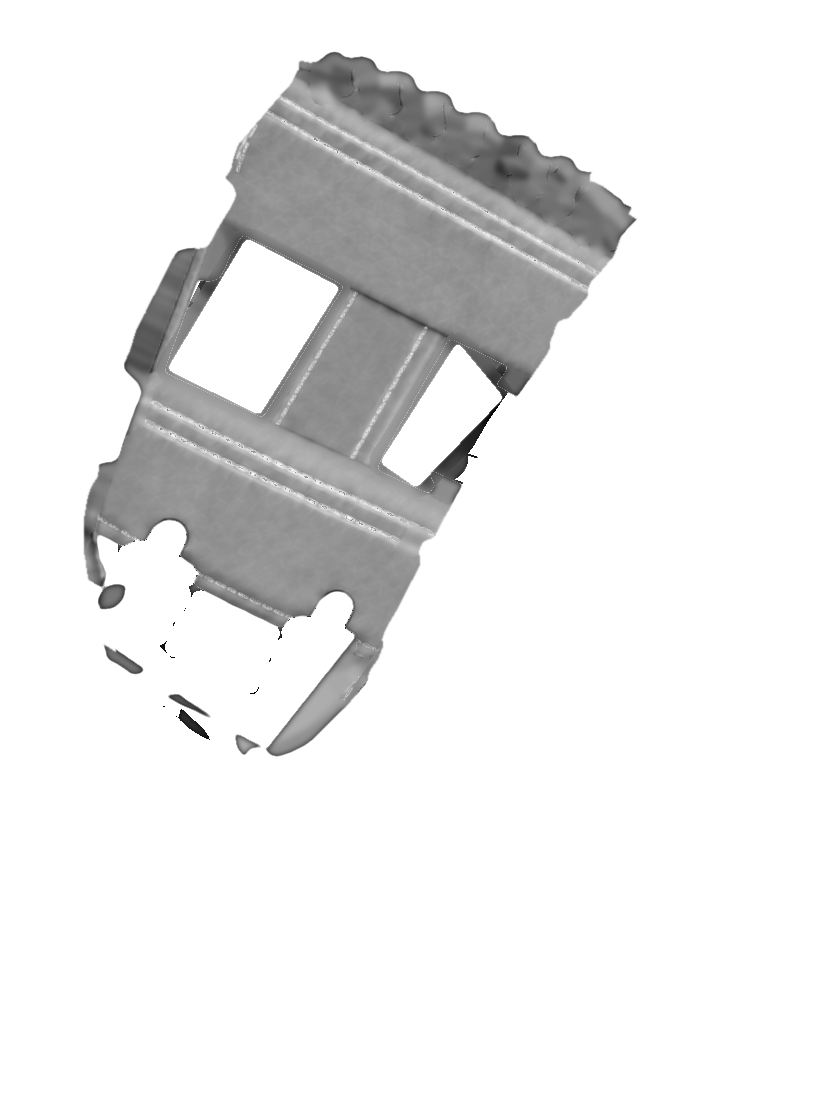
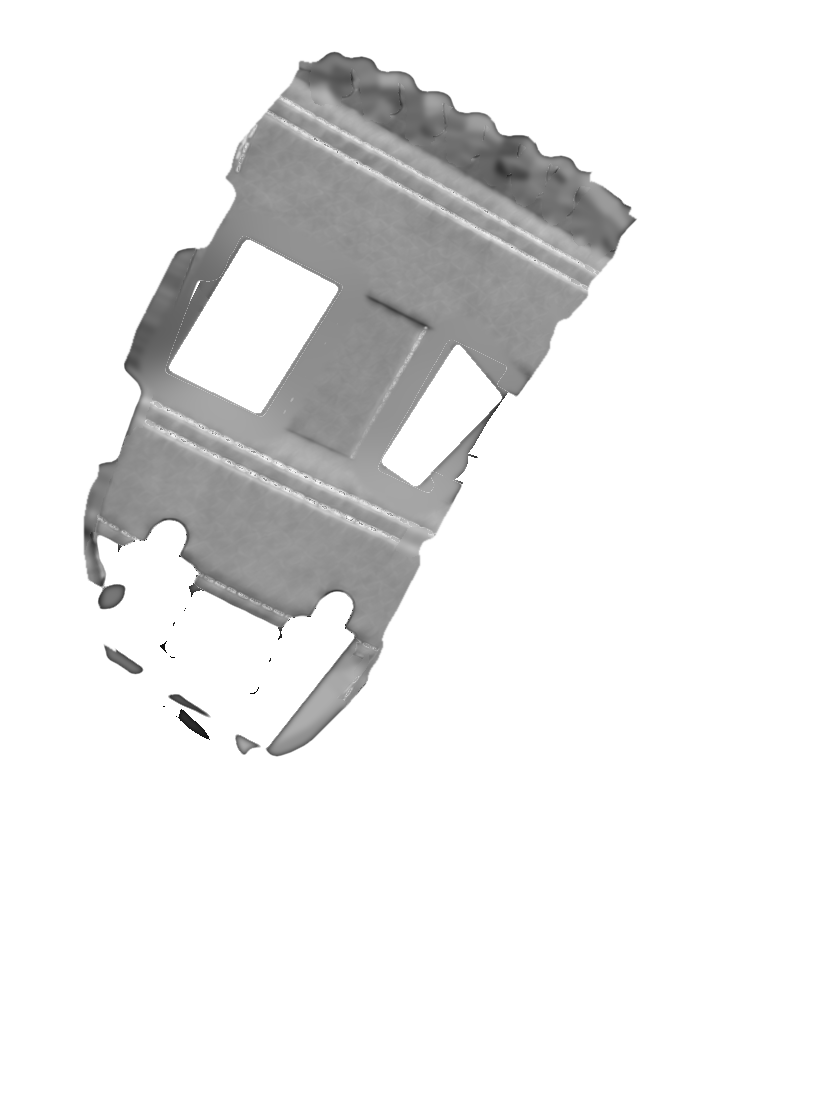
Thumb-side web windows: the rim round them is lit evenly
Scott: the second window still showed a dark step below it. The leather
round each window kept the shading of the old window's rim. It is now lit
from the leather beyond a wider rim, blended in, so only the clean window
and its own edge remain.

Claude-Session: https://claude.ai/code/session_01LrwdtXa84bx1vtPD2tbGHV

diff --git a/scripts/derive_thumb_web_estimates.py b/scripts/derive_thumb_web_estimates.py
@@ -37,7 +37,7 @@ PANEL_REACH, STRIPS = 41, {'back3'}
 EDGE = 2.2           # how far the leather's edge is evened, in pixels
 SLIVER, SEAL, HOLE = 11, 19, 2500      # a gap this narrow (SEAL on a web that is not a lattice), or an enclosed hole this small, is not an opening
 FOOT_HOLE = 8000     # ... and one this small beside the palm leather under an open web's foot is palm
-CORNER, RING = 3, 25     # how round a window's corners are, and how wide its edge is lit evenly, in pixels
+CORNER, RING = 3, 61     # how round a window's corners are, and how wide its edge is lit evenly, in pixels
 LATTICE = {'trapeze', 'modified-trapeze'}    # webs of laced straps: their small openings are real
 # the four H-web windows, palm side -> thumb side (window centres), to start the fit from
 START = ([[585, 330], [630, 579], [427, 417], [496, 672]], [[312, 286], [216, 497], [458, 366], [345, 576]])
@@ -314,8 +314,11 @@ def main():
                 # the photograph's shading of the old nicks goes with them: an even light round the window
                 ring = (cv2.dilate(quad.astype(np.uint8), cv2.getStructuringElement(cv2.MORPH_ELLIPSE, (RING, RING))) > 0) & ~quad & (a > .5)
                 if ring.any():
-                    weight = (a > .5).astype(np.float32); even = cv2.GaussianBlur(rgb * weight[:, :, None], (0, 0), 5) / np.maximum(cv2.GaussianBlur(weight, (0, 0), 5), 1e-3)[:, :, None]
-                    rgb[ring] = even[ring]
+                    # lit from the leather beyond the ring, so the old rim's shading does not come back in
+                    weight = ((a > .5) & ~ring).astype(np.float32)
+                    even = cv2.GaussianBlur(rgb * weight[:, :, None], (0, 0), RING / 2) / np.maximum(cv2.GaussianBlur(weight, (0, 0), RING / 2), 1e-3)[:, :, None]
+                    blend = np.clip(cv2.GaussianBlur(ring.astype(np.float32), (0, 0), 3), 0, 1)[:, :, None]
+                    rgb[:] = rgb * (1 - blend) + even * blend
                 soft = cv2.GaussianBlur(quad.astype(np.float32), (0, 0), .8)
                 for _, alpha_ in layers.values(): alpha_ *= 1 - soft
         entries[slug] = {}
